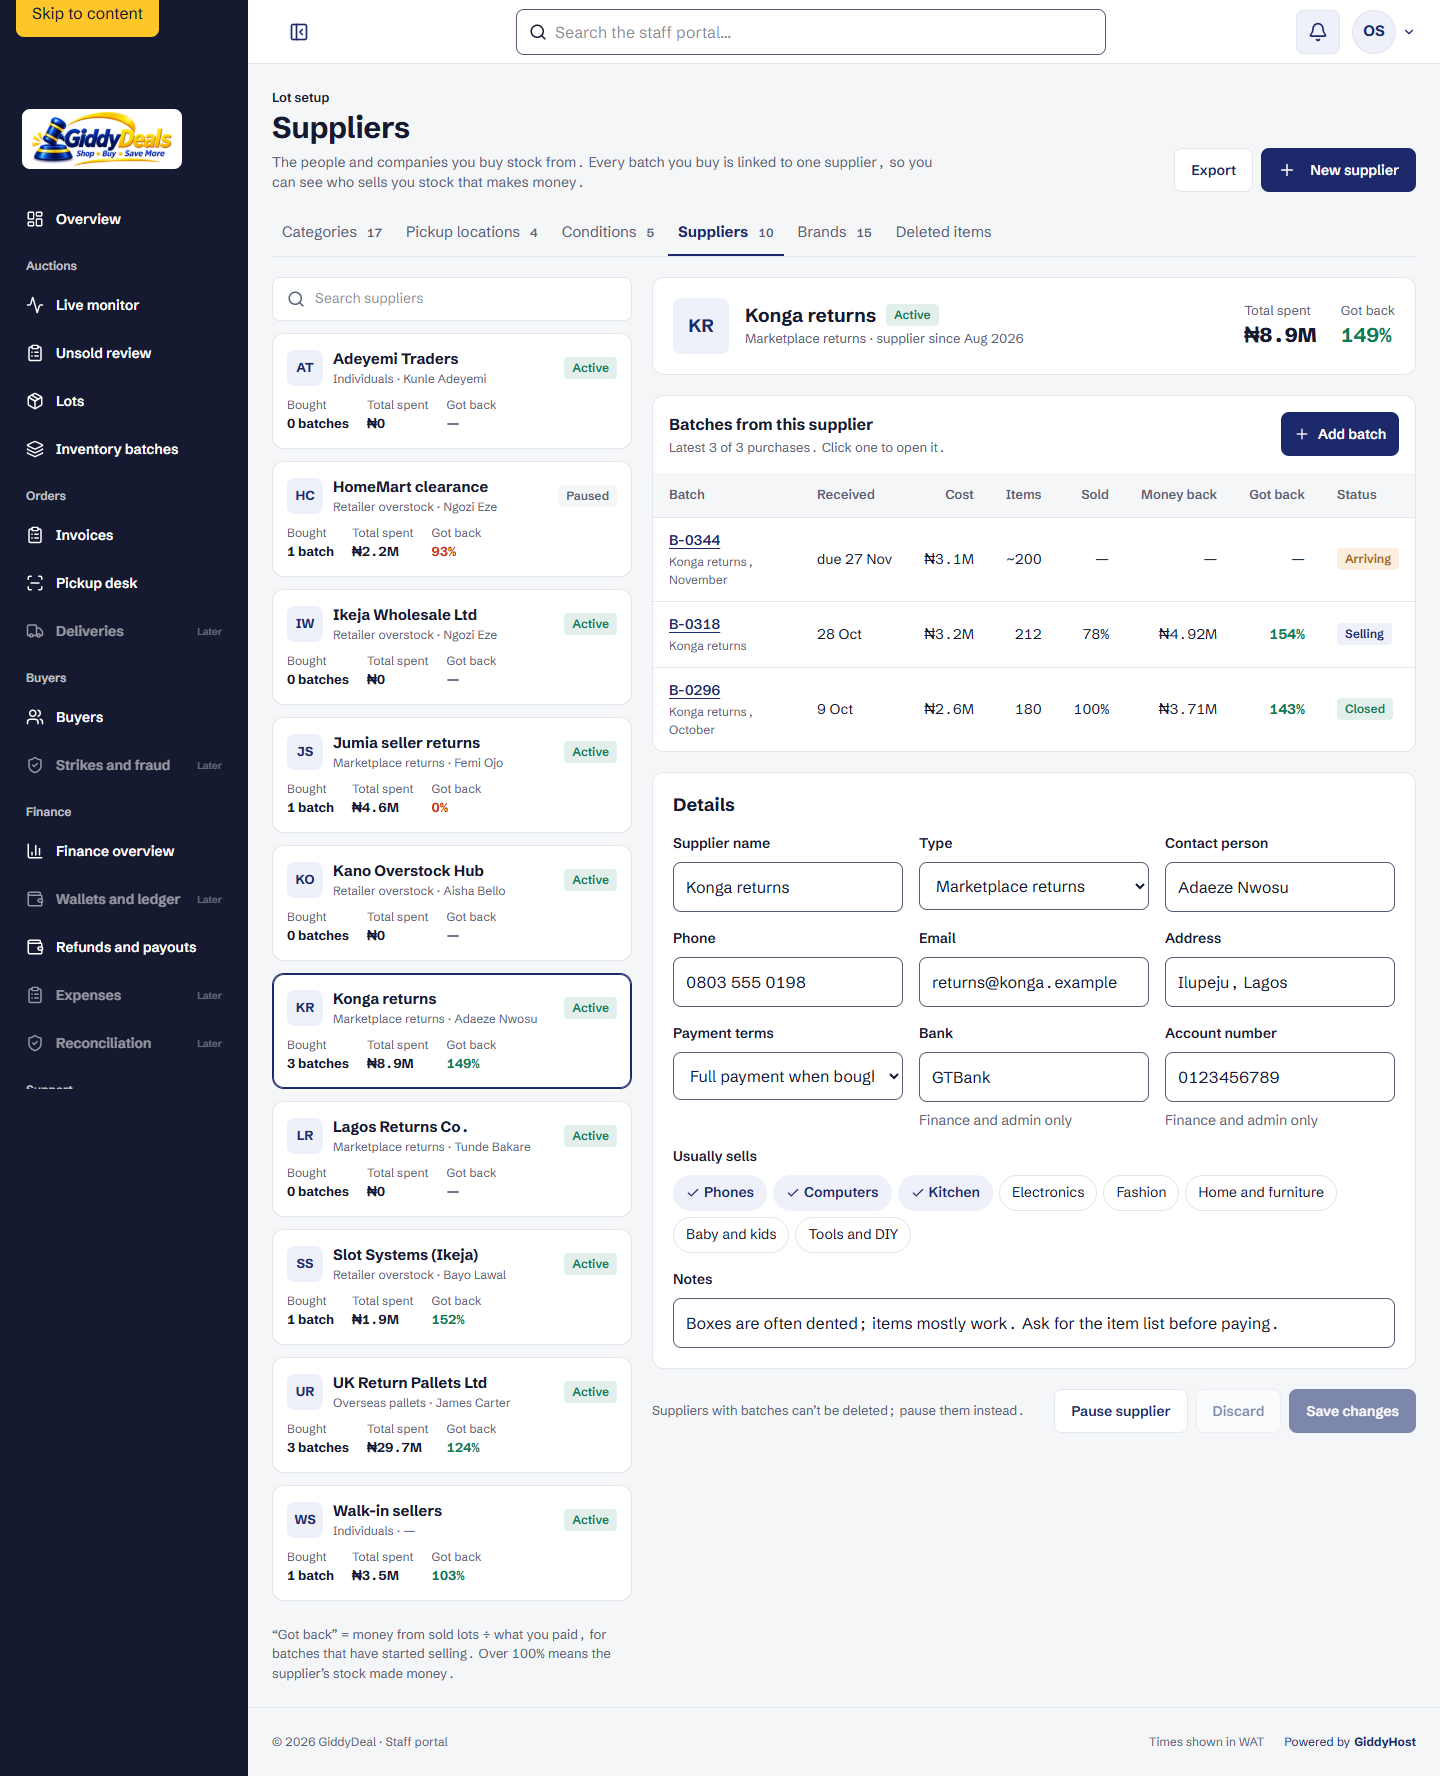
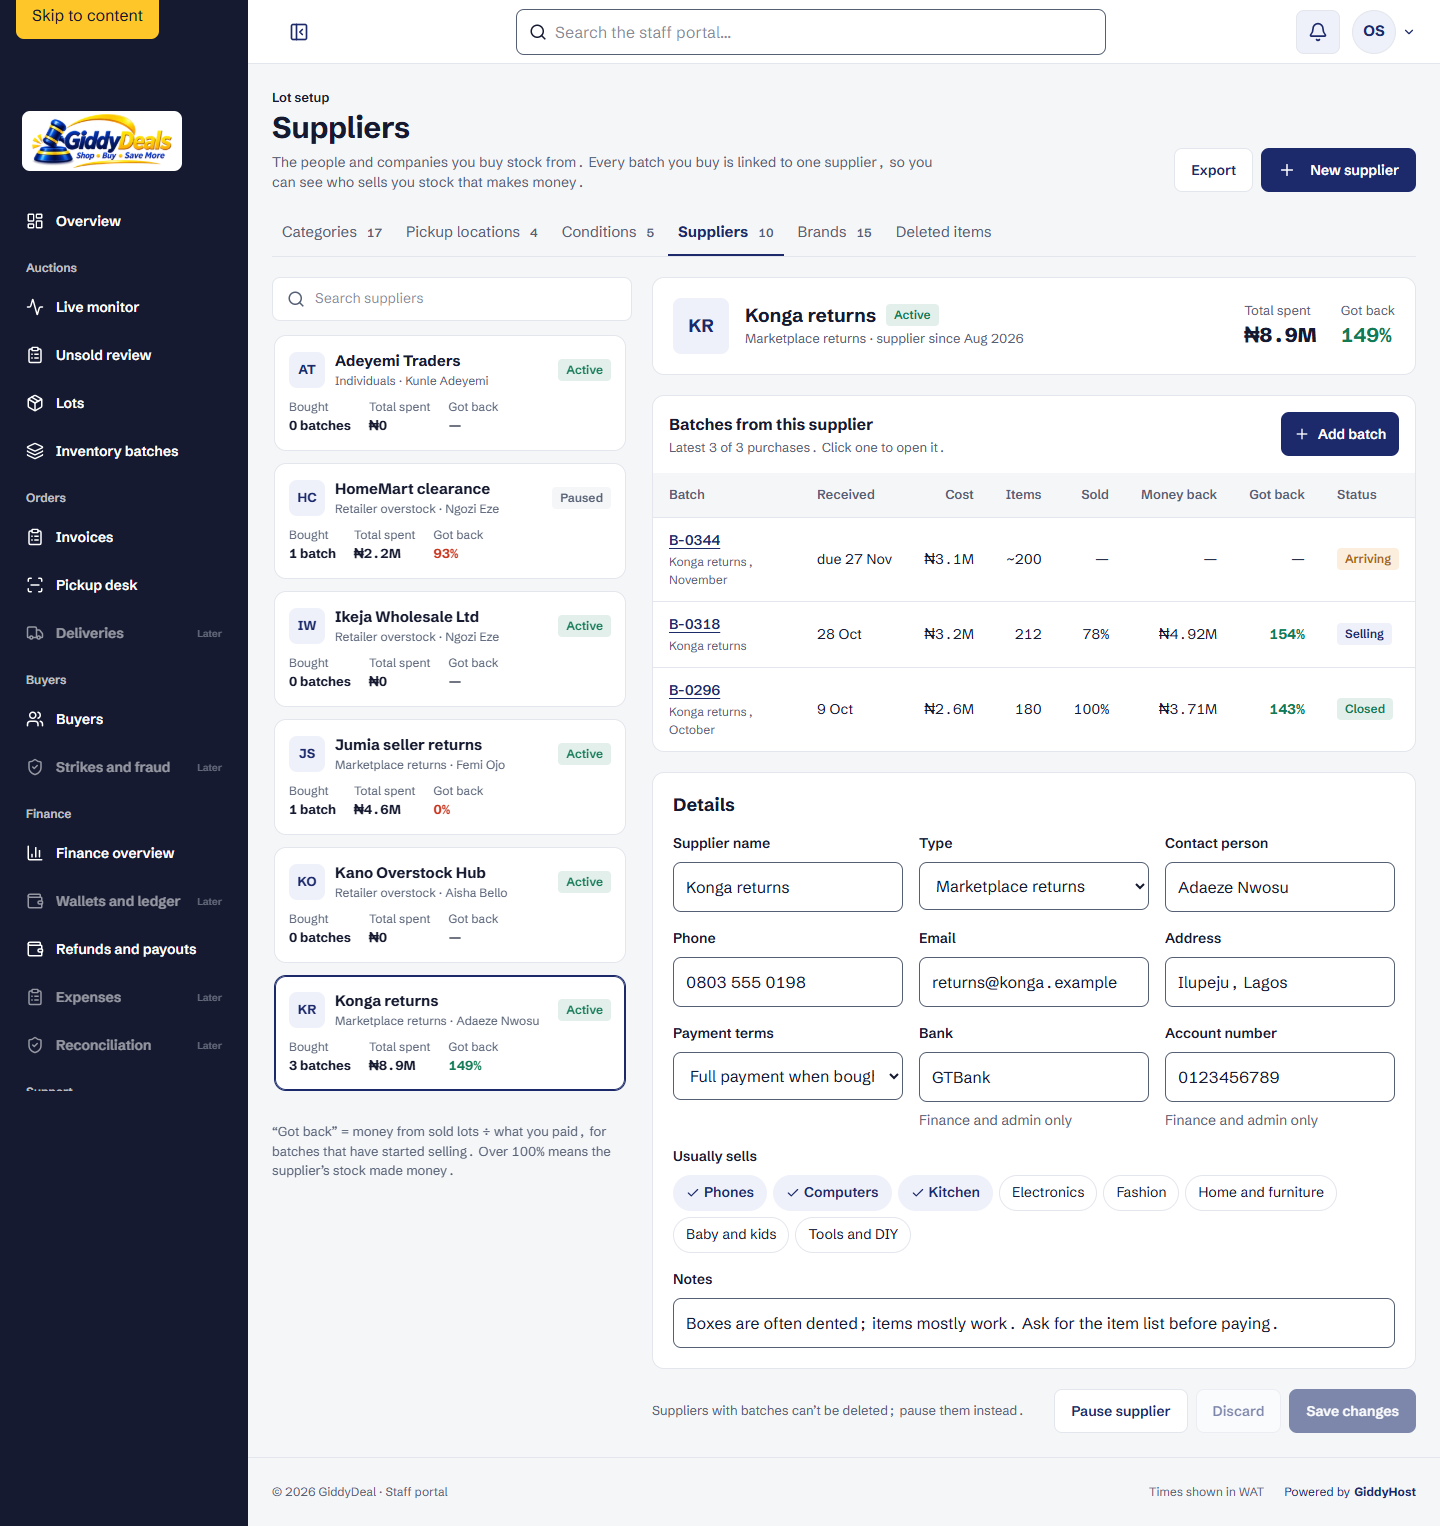
fix(suppliers): scroll the supplier list on its own

diff --git a/apps/admin/app/lot-setup/suppliers.tsx b/apps/admin/app/lot-setup/suppliers.tsx
@@ -188,50 +188,57 @@ export function SuppliersTab({
               onChange={(e) => setSearch(e.target.value)}
             />
           </label>
-          {rows.map((s) => (
-            <button
-              key={s.id}
-              type="button"
-              className="lv-supplier-card"
-              aria-current={s.id === current?.id ? 'true' : undefined}
-              onClick={async () => {
-                if (s.id === current?.id || !(await leave())) return;
-                dirty.current = false;
-                setToast('');
-                setCreating(false);
-                onSelect(s.id);
-              }}
-            >
-              <span className="lv-supplier-initials" aria-hidden="true">
-                {initials(s.name)}
-              </span>
-              <span className="lv-supplier-name">
-                <b>{s.name}</b>
-                <small>
-                  {typeLabel(s.type)} · {s.contactName ?? '—'}
-                </small>
-              </span>
-              <StatusPill active={s.active} />
-              <span className="lv-supplier-numbers">
-                <span>
-                  <small>Bought</small>
-                  <b>{batchesText(s.batches)}</b>
+          <div
+            className="lv-supplier-scroll"
+            role="region"
+            aria-label="Supplier list"
+            tabIndex={0}
+          >
+            {rows.map((s) => (
+              <button
+                key={s.id}
+                type="button"
+                className="lv-supplier-card"
+                aria-current={s.id === current?.id ? 'true' : undefined}
+                onClick={async () => {
+                  if (s.id === current?.id || !(await leave())) return;
+                  dirty.current = false;
+                  setToast('');
+                  setCreating(false);
+                  onSelect(s.id);
+                }}
+              >
+                <span className="lv-supplier-initials" aria-hidden="true">
+                  {initials(s.name)}
                 </span>
-                {s.totalSpentKobo !== null && (
-                  <>
-                    <span>
-                      <small>Total spent</small>
-                      <b>{shortNaira(s.totalSpentKobo)}</b>
-                    </span>
-                    <span>
-                      <small>Got back</small>
-                      <GotBack percent={s.gotBackPercent} />
-                    </span>
-                  </>
-                )}
-              </span>
-            </button>
-          ))}
+                <span className="lv-supplier-name">
+                  <b>{s.name}</b>
+                  <small>
+                    {typeLabel(s.type)} · {s.contactName ?? '—'}
+                  </small>
+                </span>
+                <StatusPill active={s.active} />
+                <span className="lv-supplier-numbers">
+                  <span>
+                    <small>Bought</small>
+                    <b>{batchesText(s.batches)}</b>
+                  </span>
+                  {s.totalSpentKobo !== null && (
+                    <>
+                      <span>
+                        <small>Total spent</small>
+                        <b>{shortNaira(s.totalSpentKobo)}</b>
+                      </span>
+                      <span>
+                        <small>Got back</small>
+                        <GotBack percent={s.gotBackPercent} />
+                      </span>
+                    </>
+                  )}
+                </span>
+              </button>
+            ))}
+          </div>
           {!rows.length && (
             <div className="lv-setup-state">
               {query ? (

diff --git a/packages/ui/admin/batches.css b/packages/ui/admin/batches.css
@@ -537,6 +537,31 @@
   gap: 12px;
   min-width: 0;
 }
+/* The list scrolls on its own and stays beside the chosen supplier. */
+.lv-supplier-list {
+  position: sticky;
+  top: 80px;
+  max-height: calc(100dvh - 96px);
+  grid-template-rows: auto minmax(0, 1fr);
+}
+.lv-supplier-scroll {
+  display: grid;
+  gap: 12px;
+  align-content: start;
+  min-height: 0;
+  padding: 2px 6px 2px 2px;
+  overflow-y: auto;
+  overscroll-behavior: contain;
+  scrollbar-width: thin;
+}
+.lv-supplier-scroll:empty {
+  display: none;
+}
+.lv-supplier-scroll:focus-visible {
+  outline: 2px solid var(--color-indigo-700);
+  outline-offset: 2px;
+  border-radius: var(--radius-card);
+}
 .lv-supplier-card {
   display: grid;
   grid-template-columns: auto minmax(0, 1fr) auto;
@@ -655,6 +680,16 @@
   font-size: 13px;
 }
 
+/* Stacked: a short scrolling list above the chosen supplier. */
+@media (max-width: 1023px) {
+  .lv-supplier-list {
+    position: static;
+    max-height: none;
+  }
+  .lv-supplier-scroll {
+    max-height: 400px;
+  }
+}
 @media (max-width: 1100px) {
   .lv-batch-split,
   .lv-batch-form-grid {
